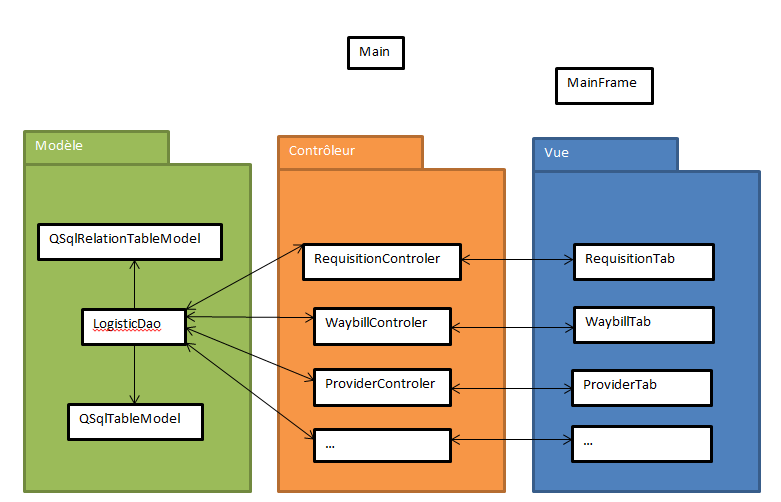
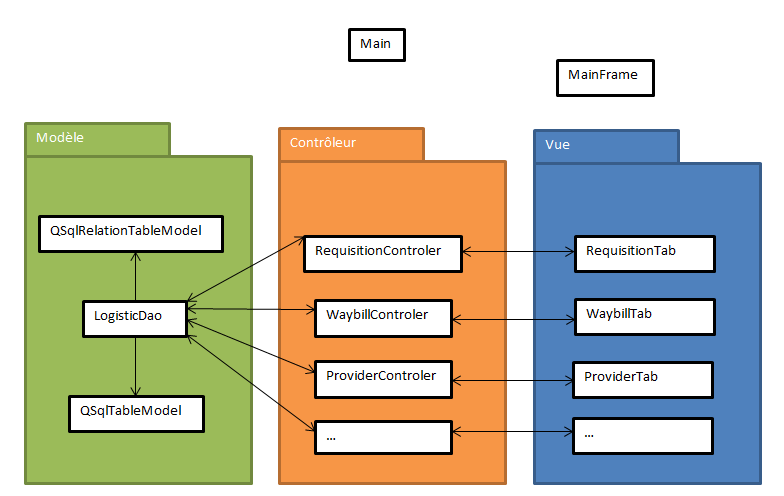
Maj Réalisation

diff --git a/Soutenance/Presentation_Me_Realisation.tex b/Soutenance/Presentation_Me_Realisation.tex
@@ -1,10 +1,10 @@
-\subsection{Réalisation}
+\subsection{Mission de ME : Réalisation}
 	\begin{frame}
 		\frametitle{Organisation des classes}
 		\begin{center}
-			\includegraphics[scale=0.3]{Images/OrganisationClasses}
+			\includegraphics[scale=0.45]{Images/OrganisationClasses}
 		\end{center}
 	\end{frame}
 	\begin{frame}
-		\frametitle{Choix d'implémentation}
+		\frametitle{Interface}
 	\end{frame}
